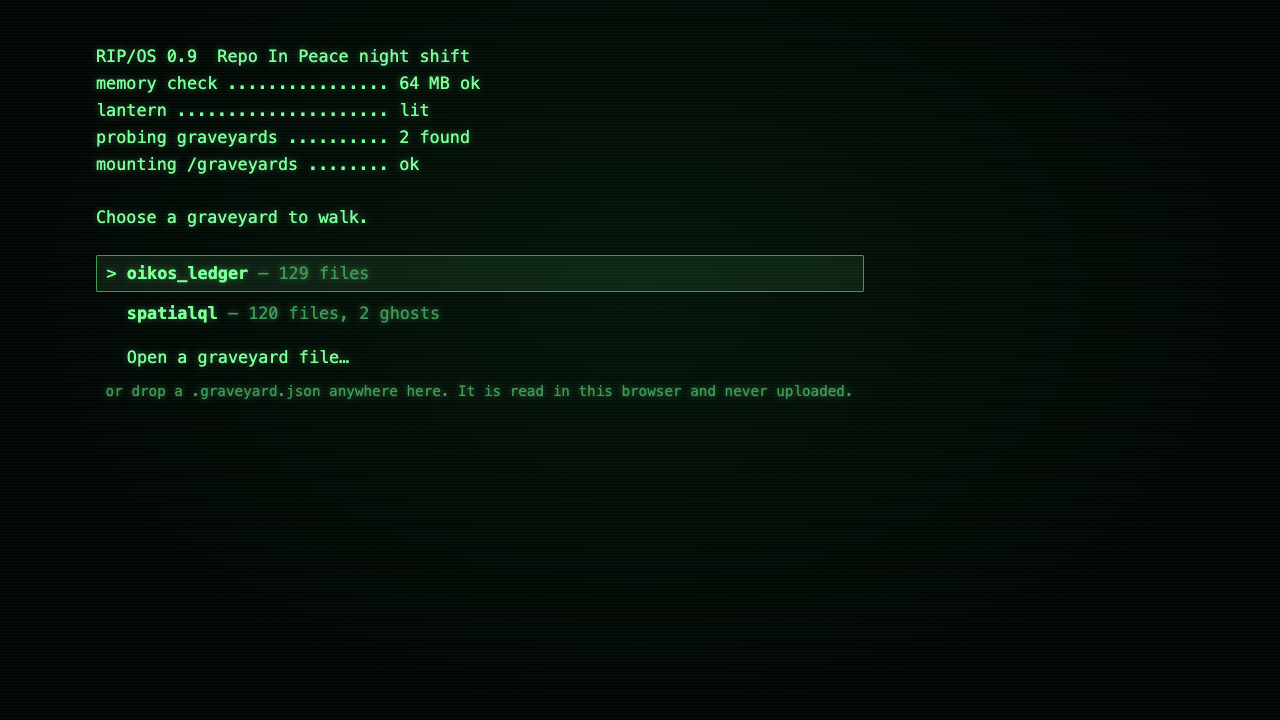
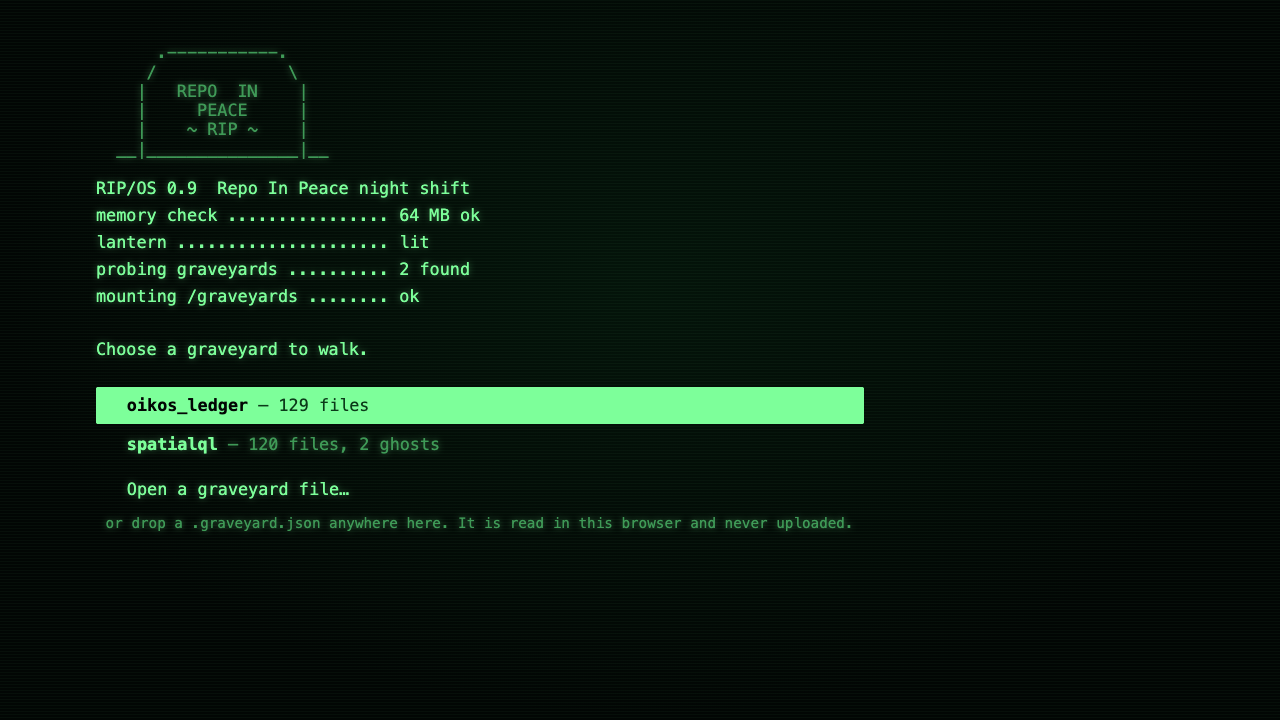
Large windows: the list starts below the open stats panel, the detail panel opens below the open legend (or stats) when there is room and is solid so nothing shows through; browser check at 1920 x 1080; boot and 1280 layout screenshots

Changed region(s): [[0.0625, 0.0611, 0.6875, 0.6417], [0.0625, 0.6722, 0.6562, 0.7333]]

diff --git a/frontend/src/ui/DetailPanel.tsx b/frontend/src/ui/DetailPanel.tsx
@@ -20,6 +20,8 @@ export function DetailPanel({ model }: { model: SceneModel }) {
   const [side, setSide] = useState<Side>('right');
   // Set once the side has been worked out for the current selection: the nudge waits for it (it must measure the panel on its side).
   const [placed, setPlaced] = useState(0);
+  // Where its top goes: below the panel above it on its side (the legend on the right, the stats on the left) when there is room.
+  const [top, setTop] = useState<number | null>(null);
   const panel = useRef<HTMLElement>(null);
 
   const found = selection ? model.lookup.get(selection.path) : undefined;
@@ -38,7 +40,9 @@ export function DetailPanel({ model }: { model: SceneModel }) {
         return;
       }
       const box = screenBoxOf(path);
-      if (box) setSide(panelSide((box.x0 + box.x1) / 2, window.innerWidth));
+      const nextSide = box ? panelSide((box.x0 + box.x1) / 2, window.innerWidth) : 'right';
+      setSide(nextSide);
+      setTop(topBelow(nextSide));
       settled = true;
       setPlaced((n) => n + 1);
     };
@@ -69,13 +73,30 @@ export function DetailPanel({ model }: { model: SceneModel }) {
   const meta = model.graveyard.meta;
   const content = item.kind === 'file' ? <StoneDetail file={model.stones[item.index]!.file} meta={meta} /> : <GhostDetail ghost={model.ghosts[item.index]!.ghost} meta={meta} />;
   return (
-    <aside ref={panel} className={`detail detail-${side}`} aria-label="Selected grave">
+    <aside ref={panel} className={`detail detail-${side}`} aria-label="Selected grave" style={top === null ? undefined : { top, maxHeight: `calc(100vh - ${top}px - 4rem)` }}>
       <button type="button" className="detail-close" aria-label="Close" title="Close (Esc)" onClick={() => clearSelection()}>
         ×
       </button>
       {content}
     </aside>
   );
+}
+
+/** The least height the panel needs below the panel above it; with less room it overlays that panel instead (from the default top). */
+const MIN_ROOM_PX = 280;
+const GAP_PX = 8;
+
+/**
+ * The top of the detail panel on this side: just below the legend (right) or the stats panel (left) when that panel is there and
+ * leaves room under it, or null for the default (the CSS top, overlaying a collapsed one).
+ */
+function topBelow(side: Side): number | null {
+  const above = document.querySelector<HTMLElement>(side === 'right' ? '.legend' : '.stats');
+  if (!above) return null;
+  const bottom = above.getBoundingClientRect().bottom + GAP_PX;
+  const defaultTop = 4 * parseFloat(getComputedStyle(document.documentElement).fontSize);
+  if (bottom <= defaultTop) return null; // collapsed: the default top already clears it
+  return window.innerHeight - bottom >= MIN_ROOM_PX ? bottom : null;
 }
 
 function Heading({ path, ghost }: { path: string; ghost: boolean }) {

diff --git a/frontend/e2e/interface.spec.ts b/frontend/e2e/interface.spec.ts
@@ -307,6 +307,18 @@ test.describe('layout and access', () => {
     }
   });
 
+  test('at 1920 × 1080, with every panel open, the list starts below the stats and the detail panel below the legend', async ({ page }) => {
+    await openScene(page, 'demo.oikosledger', { width: 1920, height: 1080 });
+    await expect(page.getByRole('button', { name: /List · / })).toHaveAttribute('aria-expanded', 'true'); // open from 1600 px
+    await page.evaluate(() => window.repoInPeace!.select({ kind: 'file', path: 'app/components/voice/index.ts' }));
+    await expect(page.getByRole('complementary', { name: 'Selected grave' })).toBeVisible();
+    await page.waitForTimeout(900);
+    const box = async (selector: string) => (await page.locator(selector).first().boundingBox())!;
+    const [stats, list, legend, detail] = [await box('.stats'), await box('.list'), await box('.legend'), await box('.detail')];
+    expect(overlaps(stats, list), `stats ${JSON.stringify(stats)} and list ${JSON.stringify(list)}`).toBe(false);
+    expect(overlaps(legend, detail), `legend ${JSON.stringify(legend)} and detail ${JSON.stringify(detail)}`).toBe(false);
+  });
+
   test('Tab reaches every control, each with a name and a visible focus ring', async ({ page }) => {
     await openScene(page, 'demo.oikosledger');
     await page.getByRole('button', { name: /List · / }).click();

diff --git a/frontend/src/index.css b/frontend/src/index.css
@@ -568,14 +568,14 @@ body,
 /* ---- Interface spec: the detail panel of the selected grave. On the side away from it; over the legend when on the right. ---- */
 .detail {
   position: fixed;
-  top: 4rem;
+  top: 4rem; /* DetailPanel moves it below the legend or the stats panel when one is open on its side */
   z-index: 15;
   width: 340px;
   max-width: calc(100vw - 2rem);
   max-height: calc(100vh - 8rem);
   overflow: auto;
   padding: 0.9rem 1rem 1rem;
-  background: var(--panel);
+  background: rgb(8, 12, 22); /* solid: whatever it overlays never shows through its text */
   border: 1px solid var(--rim);
   border-radius: 4px;
   font-size: 0.8rem;
@@ -710,7 +710,8 @@ body,
 .list-body {
   display: flex;
   flex-direction: column;
-  height: max(14rem, calc(100vh - 20rem));
+  /* Short enough to start below the open stats panel (about 15rem tall from the top) on a large window. */
+  height: max(12rem, calc(100vh - 27rem));
   padding: 0 0.6rem 0.6rem;
 }
 
